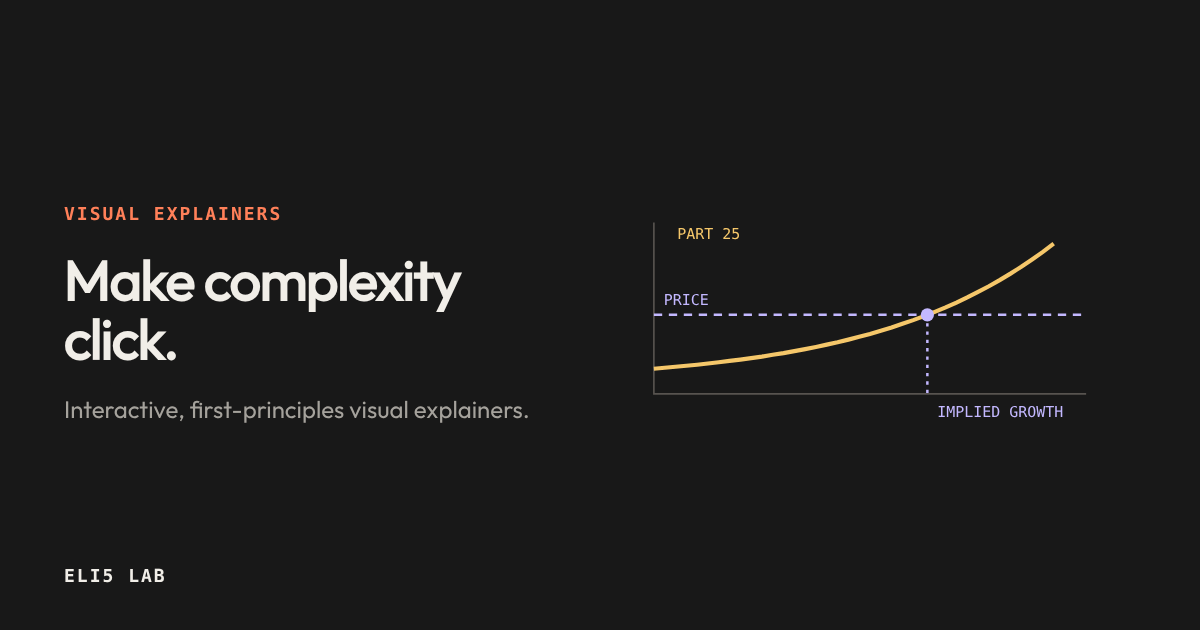
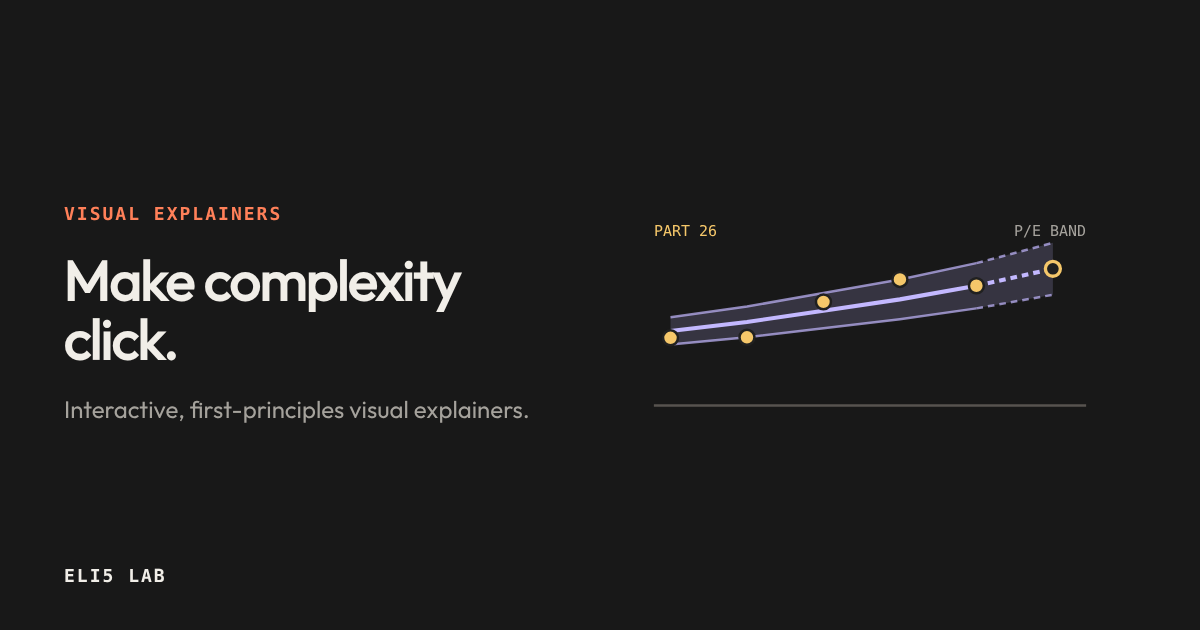
content: publish Part 26, "Relative valuation and P/E bands"
Claude-Session: https://claude.ai/code/session_01UXW7E4aVSwbFHa7ZdPFLc9

Changed region(s): [[0.5242, 0.3619, 0.8942, 0.6635], [0.5242, 0.3619, 0.6167, 0.3921]]

diff --git a/published.js b/published.js
@@ -1,5 +1,28 @@
 window.PUBLISHED = [
   {
+    "id": "relative-valuation-eli5",
+    "title": "Relative valuation and P/E bands",
+    "category": "Monetary Architecture",
+    "minutes": 15,
+    "summary": "Part 26: peer multiples, P/E bands, and why re-ratings move prices",
+    "bullets": [
+      "A P/E is a DCF in shorthand: compare only with peers that grow, earn and borrow alike",
+      "Price = EPS × P/E, so a re-rating can add or erase a year of earnings growth"
+    ],
+    "kind": "flow",
+    "color": "#ff8059",
+    "nodes": [
+      "PEERS",
+      "P/E BAND",
+      "RE-RATING"
+    ],
+    "file": "explainers/relative-valuation-eli5.html",
+    "date": "2026-11-22",
+    "subcategory": "Fundamental analysis, from scratch",
+    "card": "<svg viewBox=\"0 0 320 155\" role=\"img\" aria-label=\"A P/E band: Ramu’s price dots wander between lines of EPS times 16, 20 and 24, which fan out to a hollow FY27 estimate\">\n<polygon points=\"40.0,79.0 86.0,72.5 132.0,64.4 178.0,56.2 224.0,46.4 270.0,34.2 270.0,65.4 224.0,73.6 178.0,80.1 132.0,85.6 86.0,91.0 40.0,95.4\" fill=\"#c3b8ff\" opacity=\"0.18\"/>\n<path d=\"M30 132 L290 132\" stroke=\"#57534f\" stroke-width=\"1.5\" fill=\"none\"/>\n<polyline points=\"40.0,79.0 86.0,72.5 132.0,64.4 178.0,56.2 224.0,46.4\" fill=\"none\" stroke=\"#c3b8ff\" stroke-width=\"1.5\" opacity=\"0.7\"/>\n<polyline points=\"224.0,46.4 270.0,34.2\" fill=\"none\" stroke=\"#c3b8ff\" stroke-width=\"1.5\" opacity=\"0.7\" stroke-dasharray=\"4 3\"/>\n<polyline points=\"40.0,87.2 86.0,81.8 132.0,75.0 178.0,68.2 224.0,60.0\" fill=\"none\" stroke=\"#c3b8ff\" stroke-width=\"2.5\" opacity=\"1\"/>\n<polyline points=\"224.0,60.0 270.0,49.8\" fill=\"none\" stroke=\"#c3b8ff\" stroke-width=\"2.5\" opacity=\"1\" stroke-dasharray=\"4 3\"/>\n<polyline points=\"40.0,95.4 86.0,91.0 132.0,85.6 178.0,80.1 224.0,73.6\" fill=\"none\" stroke=\"#c3b8ff\" stroke-width=\"1.5\" opacity=\"0.7\"/>\n<polyline points=\"224.0,73.6 270.0,65.4\" fill=\"none\" stroke=\"#c3b8ff\" stroke-width=\"1.5\" opacity=\"0.7\" stroke-dasharray=\"4 3\"/>\n<circle cx=\"40.0\" cy=\"91.3\" r=\"4.5\" fill=\"#f5c76a\" stroke=\"#202020\" stroke-width=\"1.5\"/>\n<circle cx=\"86.0\" cy=\"91.0\" r=\"4.5\" fill=\"#f5c76a\" stroke=\"#202020\" stroke-width=\"1.5\"/>\n<circle cx=\"132.0\" cy=\"69.7\" r=\"4.5\" fill=\"#f5c76a\" stroke=\"#202020\" stroke-width=\"1.5\"/>\n<circle cx=\"178.0\" cy=\"56.2\" r=\"4.5\" fill=\"#f5c76a\" stroke=\"#202020\" stroke-width=\"1.5\"/>\n<circle cx=\"224.0\" cy=\"60.0\" r=\"4.5\" fill=\"#f5c76a\" stroke=\"#202020\" stroke-width=\"1.5\"/>\n<circle cx=\"270.0\" cy=\"49.8\" r=\"4.5\" fill=\"#202020\" stroke=\"#f5c76a\" stroke-width=\"2\"/>\n<g font-family=\"monospace\" font-size=\"9\"><text x=\"30\" y=\"30\" fill=\"#f5c76a\">PART 26</text><text x=\"290\" y=\"30\" text-anchor=\"end\" fill=\"#a5a29c\">P/E BAND</text></g>\n</svg>",
+    "part": 26
+  },
+  {
     "id": "reverse-dcf-eli5",
     "title": "Reverse DCF",
     "category": "Monetary Architecture",

diff --git a/explainers/relative-valuation-eli5.html b/explainers/relative-valuation-eli5.html
@@ -107,6 +107,20 @@
     .rep td.pg a{color:var(--accent)}
     @media (max-width:700px){.dashlab .lab-chart svg{min-width:640px}.eli5-study-container table.rep{min-width:0;font-size:13px}.rep th,.rep td{padding:6px 4px}.rep td.pg{white-space:normal}}
   </style>
+<!-- link-preview:start -->
+<meta name="description" content="Part 26: peer multiples, P/E bands, and why re-ratings move prices">
+<link rel="canonical" href="https://eli5-seven-mu.vercel.app/explainers/relative-valuation-eli5">
+<meta property="og:type" content="article">
+<meta property="og:site_name" content="ELI5 Lab">
+<meta property="og:title" content="Relative valuation and P/E bands">
+<meta property="og:description" content="Part 26: peer multiples, P/E bands, and why re-ratings move prices">
+<meta property="og:url" content="https://eli5-seven-mu.vercel.app/explainers/relative-valuation-eli5">
+<meta property="og:image" content="https://eli5-seven-mu.vercel.app/assets/og/relative-valuation-eli5.png?v=d00c7e36">
+<meta property="og:image:width" content="1200"><meta property="og:image:height" content="630">
+<meta property="og:image:alt" content="Relative valuation and P/E bands">
+<meta property="article:published_time" content="2026-11-22">
+<meta name="twitter:card" content="summary_large_image">
+<!-- link-preview:end -->
 </head>
 <body data-series-id="relative-valuation-eli5">
   <div class="eli5-progress-track"><div class="eli5-progress-fill" id="readingProgress"></div></div>
